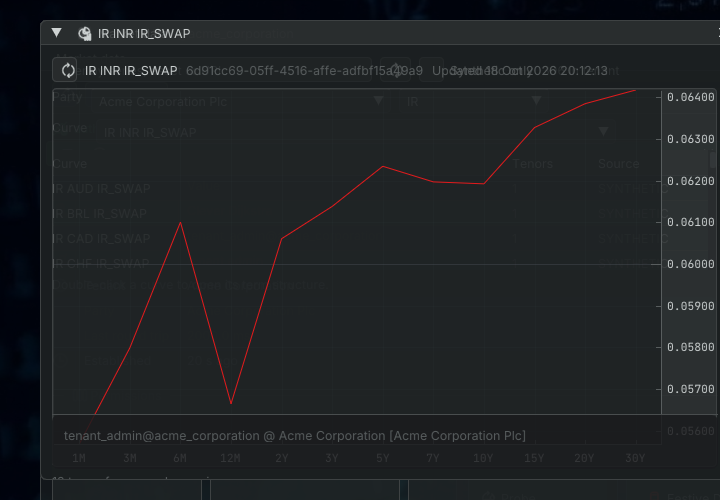
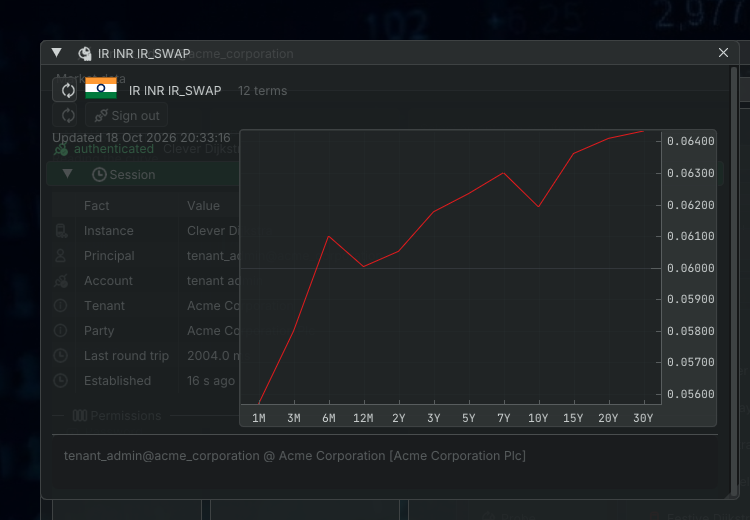
[ui] Give the term window the FX chart chrome
The curve window now carries the currency flag, the curve name, a term count, and the update time with its live or stale age. The plot reserves the status foot, uses the FX child layout, and draws the tenor axis with the numeric font and axis text colour, so the ticks are readable and the Rate legend is gone.

diff --git a/projects/hedgr.ui/src/render/term_structure_window.cpp b/projects/hedgr.ui/src/render/term_structure_window.cpp
@@ -22,6 +22,8 @@
 #include "hedgr.ui/icon/icons.hpp"
 #include "hedgr.ui/render/panels.hpp"
 #include "hedgr.ui/widget/controls.hpp"
+#include "hedgr.ui/theme/theme.hpp"
+#include "hedgr.ui/widget/flags.hpp"
 #include "hedgr.ui/widget/status_foot.hpp"
 #include "imgui.h"
 #include "implot.h"
@@ -41,6 +43,7 @@ namespace {
 
 namespace domain = hedgr::model::domain;
 namespace icon = hedgr::ui::icon;
+namespace theme = hedgr::ui::theme;
 using hedgr::model::command::command;
 
 /** @brief The instant the curve was observed, in the reader's local zone. */
@@ -118,69 +121,119 @@ void render_term_structure(window_handle handle, const render_input& input,
             .window_id = std::string{input.windows.id(handle)}});
     }
     ImGui::SameLine();
-    ImGui::TextUnformatted(terms->label.c_str());
-    ImGui::SameLine();
-    ImGui::TextDisabled("%s", terms->curve_key.c_str());
-    if (curve != nullptr && curve->observed_at_ns > 0) {
+
+    const auto currencies = widget::currencies_of(terms->label);
+    if (!currencies.base.empty()) {
+        auto* draw = ImGui::GetWindowDrawList();
+        const ImVec2 p = ImGui::GetCursorScreenPos();
+        constexpr float flag_scale = 2.0f;
+        widget::draw_flag(draw, p, currencies.base, flag_scale,
+            session ? image_texture(input, *session, currencies.base) : 0);
+        ImGui::Dummy(ImVec2(widget::flag_width * flag_scale + 4.0f,
+            widget::flag_height * flag_scale));
         ImGui::SameLine();
-        ImGui::TextDisabled("Updated %s",
-            format_updated(curve->observed_at_ns).c_str());
     }
+    ImGui::TextUnformatted(terms->label.c_str());
+    ImGui::SetItemTooltip("%s", terms->curve_key.c_str());
+
+    if (curve != nullptr && !curve->nodes.empty()) {
+        ImGui::SameLine(0.0f, ImGui::GetStyle().ItemSpacing.x * 2.0f);
+        ImGui::TextDisabled("%zu terms", curve->nodes.size());
+    }
+    ImGui::NewLine();
 
     if (!session.has_value()) {
         ImGui::TextDisabled("Sign in to read this curve.");
-    } else if (curve == nullptr || (curve->nodes.empty()
-                   && curve->error.empty())) {
+    } else if (curve != nullptr && curve->observed_at_ns > 0) {
+        ImGui::TextDisabled("Updated %s",
+            format_updated(curve->observed_at_ns).c_str());
+        ImGui::SameLine();
+        if (input.now_ns >= curve->observed_at_ns) {
+            const auto age_s = static_cast<double>(
+                input.now_ns - curve->observed_at_ns) / 1.0e9;
+            const ImU32 colour = age_s > 10.0
+                ? theme::readiness_colour(domain::readiness::bootstrapping)
+                : ImGui::GetColorU32(ImGuiCol_TextDisabled);
+            ImGui::TextDisabled("\u00b7");
+            ImGui::SameLine();
+            if (age_s < 3.0) {
+                ImGui::TextColored(ImGui::ColorConvertU32ToFloat4(colour),
+                    "live");
+            } else {
+                ImGui::TextColored(ImGui::ColorConvertU32ToFloat4(colour),
+                    "stale %.0f s", age_s);
+            }
+        }
+    } else if (curve != nullptr) {
         ImGui::TextDisabled("Reading the curve...");
-    } else if (!curve->error.empty()) {
-        ImGui::TextWrapped("%s", curve->error.c_str());
-    } else {
-        auto nodes = curve->nodes;
-        std::sort(nodes.begin(), nodes.end(),
-            [](const auto& a, const auto& b) {
-                return tenor_rank(a.tenor) < tenor_rank(b.tenor);
-            });
-        std::vector<double> xs;
-        std::vector<double> ys;
-        std::vector<const char*> labels;
-        xs.reserve(nodes.size());
-        ys.reserve(nodes.size());
-        labels.reserve(nodes.size());
-        for (std::size_t i = 0; i < nodes.size(); ++i) {
-            xs.push_back(static_cast<double>(i));
-            ys.push_back(nodes[i].value);
-            labels.push_back(nodes[i].tenor.empty() ? "spot"
-                                                    : nodes[i].tenor.c_str());
-        }
-        constexpr ImPlotFlags plot_flags = ImPlotFlags_Crosshairs
-            | ImPlotFlags_NoTitle | ImPlotFlags_NoLegend
-            | ImPlotFlags_NoMenus;
-
-        ImPlot::PushStyleVar(ImPlotStyleVar_PlotPadding, ImVec2(2.0f, 2.0f));
-        ImPlot::PushStyleVar(ImPlotStyleVar_PlotBorderSize, 0.0f);
-        ImPlot::PushStyleColor(ImPlotCol_AxisGrid,
-            ImVec4(0.33f, 0.35f, 0.38f, 0.35f));
-        ImPlot::PushStyleColor(ImPlotCol_AxisText,
-            ImGui::GetStyleColorVec4(ImGuiCol_Text));
-        ImGui::PushFont(icon::numeric_font());
-        if (ImPlot::BeginPlot("##curve", ImVec2(-1.0f, -1.0f),
-                plot_flags)) {
-            ImPlot::SetupAxes("", "", ImPlotAxisFlags_None,
-                ImPlotAxisFlags_AutoFit | ImPlotAxisFlags_Opposite);
-            ImPlot::SetupAxisTicks(ImAxis_X1, xs.data(),
-                static_cast<int>(xs.size()), labels.data());
-            ImPlot::SetupAxisLimits(ImAxis_X1, -0.5,
-                static_cast<double>(xs.size()) - 0.5, ImGuiCond_Always);
-            ImPlot::SetupAxisFormat(ImAxis_Y1, "%.5f");
-            ImPlot::PlotLine("Rate", xs.data(), ys.data(),
-                static_cast<int>(xs.size()));
-            ImPlot::EndPlot();
-        }
-        ImGui::PopFont();
-        ImPlot::PopStyleColor(2);
-        ImPlot::PopStyleVar(2);
-        ImGui::TextDisabled("%zu terms from member series.", nodes.size());
     }
+    if (curve != nullptr && !curve->error.empty()) {
+        ImGui::TextColored(
+            ImGui::ColorConvertU32ToFloat4(theme::failure_colour),
+            "%s", curve->error.c_str());
+    }
+
+    const float foot_height = widget::status_foot_height(status);
+    const ImVec2 available = ImGui::GetContentRegionAvail();
+    const float plot_height = std::max(
+        available.y - foot_height - ImGui::GetStyle().ItemSpacing.y, 80.0f);
+    ImGui::PushStyleVar(ImGuiStyleVar_WindowPadding, ImVec2(0.0f, 0.0f));
+    if (ImGui::BeginChild("##curve-area", ImVec2(available.x, plot_height),
+            ImGuiChildFlags_None)) {
+        if (curve == nullptr || (curve->nodes.empty() && curve->error.empty())) {
+            ImGui::TextDisabled("Reading the curve...");
+        } else if (!curve->error.empty()) {
+            ImGui::TextWrapped("%s", curve->error.c_str());
+        } else {
+            auto nodes = curve->nodes;
+            std::sort(nodes.begin(), nodes.end(),
+                [](const auto& a, const auto& b) {
+                    return tenor_rank(a.tenor) < tenor_rank(b.tenor);
+                });
+            std::vector<double> xs;
+            std::vector<double> ys;
+            std::vector<const char*> labels;
+            xs.reserve(nodes.size());
+            ys.reserve(nodes.size());
+            labels.reserve(nodes.size());
+            for (std::size_t i = 0; i < nodes.size(); ++i) {
+                xs.push_back(static_cast<double>(i));
+                ys.push_back(nodes[i].value);
+                labels.push_back(nodes[i].tenor.empty()
+                        ? "spot" : nodes[i].tenor.c_str());
+            }
+
+            constexpr ImPlotFlags plot_flags = ImPlotFlags_Crosshairs
+                | ImPlotFlags_NoTitle | ImPlotFlags_NoLegend
+                | ImPlotFlags_NoMenus;
+            ImPlot::PushStyleVar(ImPlotStyleVar_PlotPadding,
+                ImVec2(2.0f, 2.0f));
+            ImPlot::PushStyleVar(ImPlotStyleVar_PlotBorderSize, 0.0f);
+            ImPlot::PushStyleColor(ImPlotCol_AxisGrid,
+                ImVec4(0.33f, 0.35f, 0.38f, 0.35f));
+            ImPlot::PushStyleColor(ImPlotCol_AxisText,
+                ImGui::GetStyleColorVec4(ImGuiCol_Text));
+            ImGui::PushFont(icon::numeric_font());
+            if (ImPlot::BeginPlot("##curve", ImVec2(-1.0f, -1.0f),
+                    plot_flags)) {
+                ImPlot::SetupAxes("", "", ImPlotAxisFlags_None,
+                    ImPlotAxisFlags_AutoFit | ImPlotAxisFlags_Opposite);
+                ImPlot::SetupAxisTicks(ImAxis_X1, xs.data(),
+                    static_cast<int>(xs.size()), labels.data());
+                ImPlot::SetupAxisLimits(ImAxis_X1, -0.5,
+                    static_cast<double>(xs.size()) - 0.5, ImGuiCond_Always);
+                ImPlot::SetupAxisFormat(ImAxis_Y1, "%.5f");
+                ImPlot::PlotLine("Rate", xs.data(), ys.data(),
+                    static_cast<int>(xs.size()));
+                ImPlot::EndPlot();
+            }
+            ImGui::PopFont();
+            ImPlot::PopStyleColor(2);
+            ImPlot::PopStyleVar(2);
+        }
+    }
+    ImGui::EndChild();
+    ImGui::PopStyleVar();
 
     widget::draw_status_foot(status, input.now_ns, foot);
     ImGui::PopID();

diff --git a/docs/verification/rates-term-structures.md b/docs/verification/rates-term-structures.md
@@ -8,9 +8,10 @@ list from points to term structures. Leaf series that share a curve identity
 curve whose observations carry `term` is one row of its own.
 
 Double-clicking a curve, or choosing it in the combo, opens a term-structure
-window like the FX chart window. It draws tenor on the x-axis and rate on the
-y-axis, with the same plot flags, grid and numeric font as FX, no legend, and
-the observation time in the header. Its refresh button reads the curve again. The read runs on a worker
+window like the FX chart window. It has the same chrome: a currency flag, the
+curve name, a refresh control, a term count and the update time with its age.
+The plot uses the FX plot flags, grid, padding and numeric font, with bright
+axis text and no legend; tenor is the categorical x-axis. Its refresh button reads the curve again. The read runs on a worker
 and its own connection; the frame loop only draws the result.
 
 ## Data path
